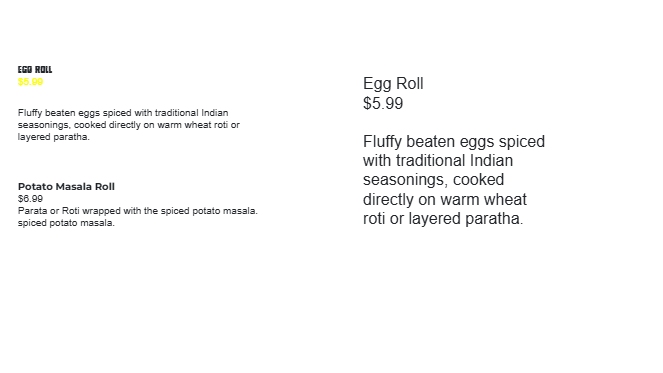
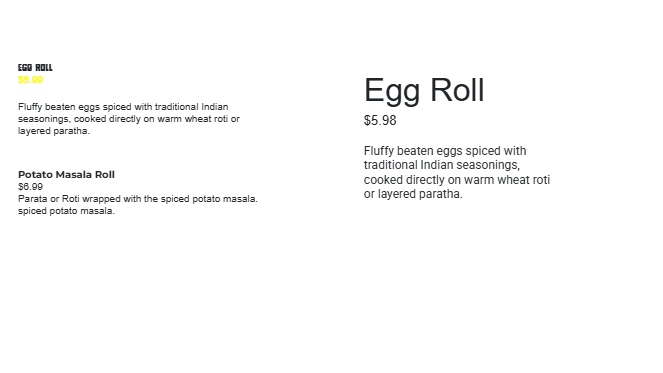
height and width box implemented UI only also onselect style functionality change

diff --git a/AnimationProject/wwwroot/js/animationsHorizontal.js b/AnimationProject/wwwroot/js/animationsHorizontal.js
@@ -5679,7 +5679,7 @@ canvas.addEventListener("click", function onCanvasClick(e) {
         selectGroup(txtHit.groupId);
         setGroupCheckbox(txtHit.groupId);
 
-        $("#favcolor").val(txtHit.textColor);
+       // $("#favcolor").val(txtHit.textColor);
         $("#noAnimCheckbox").prop("checked", !!txtHit.noAnim);
         $("#fontstyle_popup").show();
         $(".right-sec-two").show();
@@ -5688,7 +5688,7 @@ canvas.addEventListener("click", function onCanvasClick(e) {
         isMarquee = false;
         setGraphicModeActive();
         setOpacityUI(normAlpha?.(txtHit.opacity));
-
+     
     } else if (imgHit) {
         imgHit.selected = true;
         activeImage = imgHit;
@@ -17177,7 +17177,7 @@ function getNearestTextStyle(root = textEditorNew) {
         const style = getNearestTextStyle(root);
         if (!style) return;
         // TODO: update your UI (replace console.log)
-        console.log('[nearest-style]', style);
+       // console.log('[nearest-style]', style);
         // e.g., toolbar.setFontFamily(style.fontFamily); toolbar.setFontWeight(style.fontWeight);
     };
 
@@ -17297,51 +17297,51 @@ function __nearestStyleSummary(root) {
 }
 
 // -- UI updater
-function __updateToolbarFromStyle(style) {
-    if (!style) return;
+//function __updateToolbarFromStyle(style) {
+//    if (!style) return;
 
-    // 1) Font size select
-    const sizeSel = document.getElementById('fontSizeSelect');
-    if (sizeSel) {
-        const best = __closestOptionValue(sizeSel, style.fontSize);
-        if (sizeSel.value !== best) sizeSel.value = best;
-    }
+//    // 1) Font size select
+//    const sizeSel = document.getElementById('fontSizeSelect');
+//    if (sizeSel) {
+//        const best = __closestOptionValue(sizeSel, style.fontSize);
+//        if (sizeSel.value !== best) sizeSel.value = best;
+//    }
 
-    // 2) Color input (#favcolor expects hex)
-    const colorInput = document.getElementById('favcolor');
-    if (colorInput) {
-        const hex = __rgbToHex(style.color || '#000');
-        if (colorInput.value.toUpperCase() !== hex) colorInput.value = hex;
-    }
+//    // 2) Color input (#favcolor expects hex)
+//    const colorInput = document.getElementById('favcolor');
+//    if (colorInput) {
+//        const hex = __rgbToHex(style.color || '#000');
+//        if (colorInput.value.toUpperCase() !== hex) colorInput.value = hex;
+//    }
 
-    // 3) Bold / Italic buttons
-    __toggleClass(document.getElementById('boldBtn'), 'active', style.fontWeight === 'bold');
-    __toggleClass(document.getElementById('italicBtn'), 'active', style.fontStyle === 'italic');
+//    // 3) Bold / Italic buttons
+//    __toggleClass(document.getElementById('boldBtn'), 'active', style.fontWeight === 'bold');
+//    __toggleClass(document.getElementById('italicBtn'), 'active', style.fontStyle === 'italic');
 
-    // 4) Font family list (your <ul class="TextStyle">)
-    //    We’ll mark the <a> whose text OR family name matches as active.
-    const list = document.querySelector('ul.TextStyle');
-    if (list) {
-        // clear previous
-        list.querySelectorAll('a').forEach(a => a.classList.remove('active'));
-        // find match
-        const want = (style.fontFamily || '').toLowerCase();
-        let match = null;
+//    // 4) Font family list (your <ul class="TextStyle">)
+//    //    We’ll mark the <a> whose text OR family name matches as active.
+//    const list = document.querySelector('ul.TextStyle');
+//    if (list) {
+//        // clear previous
+//        list.querySelectorAll('a').forEach(a => a.classList.remove('active'));
+//        // find match
+//        const want = (style.fontFamily || '').toLowerCase();
+//        let match = null;
 
-        // (a) match by the onclick argument OnChangefontFamily('Name')
-        match = Array.from(list.querySelectorAll('a')).find(a => {
-            const oc = a.getAttribute('onclick') || '';
-            return oc.toLowerCase().includes("'" + want + "'") || oc.toLowerCase().includes('"' + want + '"');
-        });
+//        // (a) match by the onclick argument OnChangefontFamily('Name')
+//        match = Array.from(list.querySelectorAll('a')).find(a => {
+//            const oc = a.getAttribute('onclick') || '';
+//            return oc.toLowerCase().includes("'" + want + "'") || oc.toLowerCase().includes('"' + want + '"');
+//        });
 
-        // (b) fallback: match by visible text
-        if (!match) {
-            match = Array.from(list.querySelectorAll('a')).find(a => a.textContent.trim().toLowerCase() === want);
-        }
+//        // (b) fallback: match by visible text
+//        if (!match) {
+//            match = Array.from(list.querySelectorAll('a')).find(a => a.textContent.trim().toLowerCase() === want);
+//        }
 
-        if (match) match.classList.add('active');
-    }
-}
+//        if (match) match.classList.add('active');
+//    }
+//}
 
 // -- wiring (one RAF-throttled reporter)
 (function wireStyleSync() {
@@ -17351,7 +17351,7 @@ function __updateToolbarFromStyle(style) {
     let rafId;
     const report = () => {
         cancelAnimationFrame(rafId);
-        rafId = requestAnimationFrame(() => {
+        rafId = requestAnimationFrame(() => {      
             const style = __nearestStyleSummary(root);
             __updateToolbarFromStyle(style);
         });

diff --git a/AnimationProject/wwwroot/js/animations.js b/AnimationProject/wwwroot/js/animations.js
@@ -5696,7 +5696,7 @@ canvas.addEventListener("click", function onCanvasClick(e) {
         selectGroup(txtHit.groupId);
         setGroupCheckbox(txtHit.groupId);
 
-        $("#favcolor").val(txtHit.textColor);
+        //$("#favcolor").val(txtHit.textColor);
         $("#noAnimCheckbox").prop("checked", !!txtHit.noAnim);
         $("#fontstyle_popup").show();
         $(".right-sec-two").show();
@@ -17607,7 +17607,7 @@ function getNearestTextStyle(root = textEditorNew) {
         const style = getNearestTextStyle(root);
         if (!style) return;
         // TODO: update your UI (replace console.log)
-        console.log('[nearest-style]', style);
+       // console.log('[nearest-style]', style);
         // e.g., toolbar.setFontFamily(style.fontFamily); toolbar.setFontWeight(style.fontWeight);
     };
 
@@ -17727,51 +17727,51 @@ function __nearestStyleSummary(root) {
 }
 
 // -- UI updater
-function __updateToolbarFromStyle(style) {
-    if (!style) return;
+//function __updateToolbarFromStyle(style) {
+//    if (!style) return;
 
-    // 1) Font size select
-    const sizeSel = document.getElementById('fontSizeSelect');
-    if (sizeSel) {
-        const best = __closestOptionValue(sizeSel, style.fontSize);
-        if (sizeSel.value !== best) sizeSel.value = best;
-    }
+//    // 1) Font size select
+//    const sizeSel = document.getElementById('fontSizeSelect');
+//    if (sizeSel) {
+//        const best = __closestOptionValue(sizeSel, style.fontSize);
+//        if (sizeSel.value !== best) sizeSel.value = best;
+//    }
 
-    // 2) Color input (#favcolor expects hex)
-    const colorInput = document.getElementById('favcolor');
-    if (colorInput) {
-        const hex = __rgbToHex(style.color || '#000');
-        if (colorInput.value.toUpperCase() !== hex) colorInput.value = hex;
-    }
+//    // 2) Color input (#favcolor expects hex)
+//    const colorInput = document.getElementById('favcolor');
+//    if (colorInput) {
+//        const hex = __rgbToHex(style.color || '#000');
+//        if (colorInput.value.toUpperCase() !== hex) colorInput.value = hex;
+//    }
 
-    // 3) Bold / Italic buttons
-    __toggleClass(document.getElementById('boldBtn'), 'active', style.fontWeight === 'bold');
-    __toggleClass(document.getElementById('italicBtn'), 'active', style.fontStyle === 'italic');
+//    // 3) Bold / Italic buttons
+//    __toggleClass(document.getElementById('boldBtn'), 'active', style.fontWeight === 'bold');
+//    __toggleClass(document.getElementById('italicBtn'), 'active', style.fontStyle === 'italic');
 
-    // 4) Font family list (your <ul class="TextStyle">)
-    //    We’ll mark the <a> whose text OR family name matches as active.
-    const list = document.querySelector('ul.TextStyle');
-    if (list) {
-        // clear previous
-        list.querySelectorAll('a').forEach(a => a.classList.remove('active'));
-        // find match
-        const want = (style.fontFamily || '').toLowerCase();
-        let match = null;
+//    // 4) Font family list (your <ul class="TextStyle">)
+//    //    We’ll mark the <a> whose text OR family name matches as active.
+//    const list = document.querySelector('ul.TextStyle');
+//    if (list) {
+//        // clear previous
+//        list.querySelectorAll('a').forEach(a => a.classList.remove('active'));
+//        // find match
+//        const want = (style.fontFamily || '').toLowerCase();
+//        let match = null;
 
-        // (a) match by the onclick argument OnChangefontFamily('Name')
-        match = Array.from(list.querySelectorAll('a')).find(a => {
-            const oc = a.getAttribute('onclick') || '';
-            return oc.toLowerCase().includes("'" + want + "'") || oc.toLowerCase().includes('"' + want + '"');
-        });
+//        // (a) match by the onclick argument OnChangefontFamily('Name')
+//        match = Array.from(list.querySelectorAll('a')).find(a => {
+//            const oc = a.getAttribute('onclick') || '';
+//            return oc.toLowerCase().includes("'" + want + "'") || oc.toLowerCase().includes('"' + want + '"');
+//        });
 
-        // (b) fallback: match by visible text
-        if (!match) {
-            match = Array.from(list.querySelectorAll('a')).find(a => a.textContent.trim().toLowerCase() === want);
-        }
+//        // (b) fallback: match by visible text
+//        if (!match) {
+//            match = Array.from(list.querySelectorAll('a')).find(a => a.textContent.trim().toLowerCase() === want);
+//        }
 
-        if (match) match.classList.add('active');
-    }
-}
+//        if (match) match.classList.add('active');
+//    }
+//}
 
 // -- wiring (one RAF-throttled reporter)
 (function wireStyleSync() {
